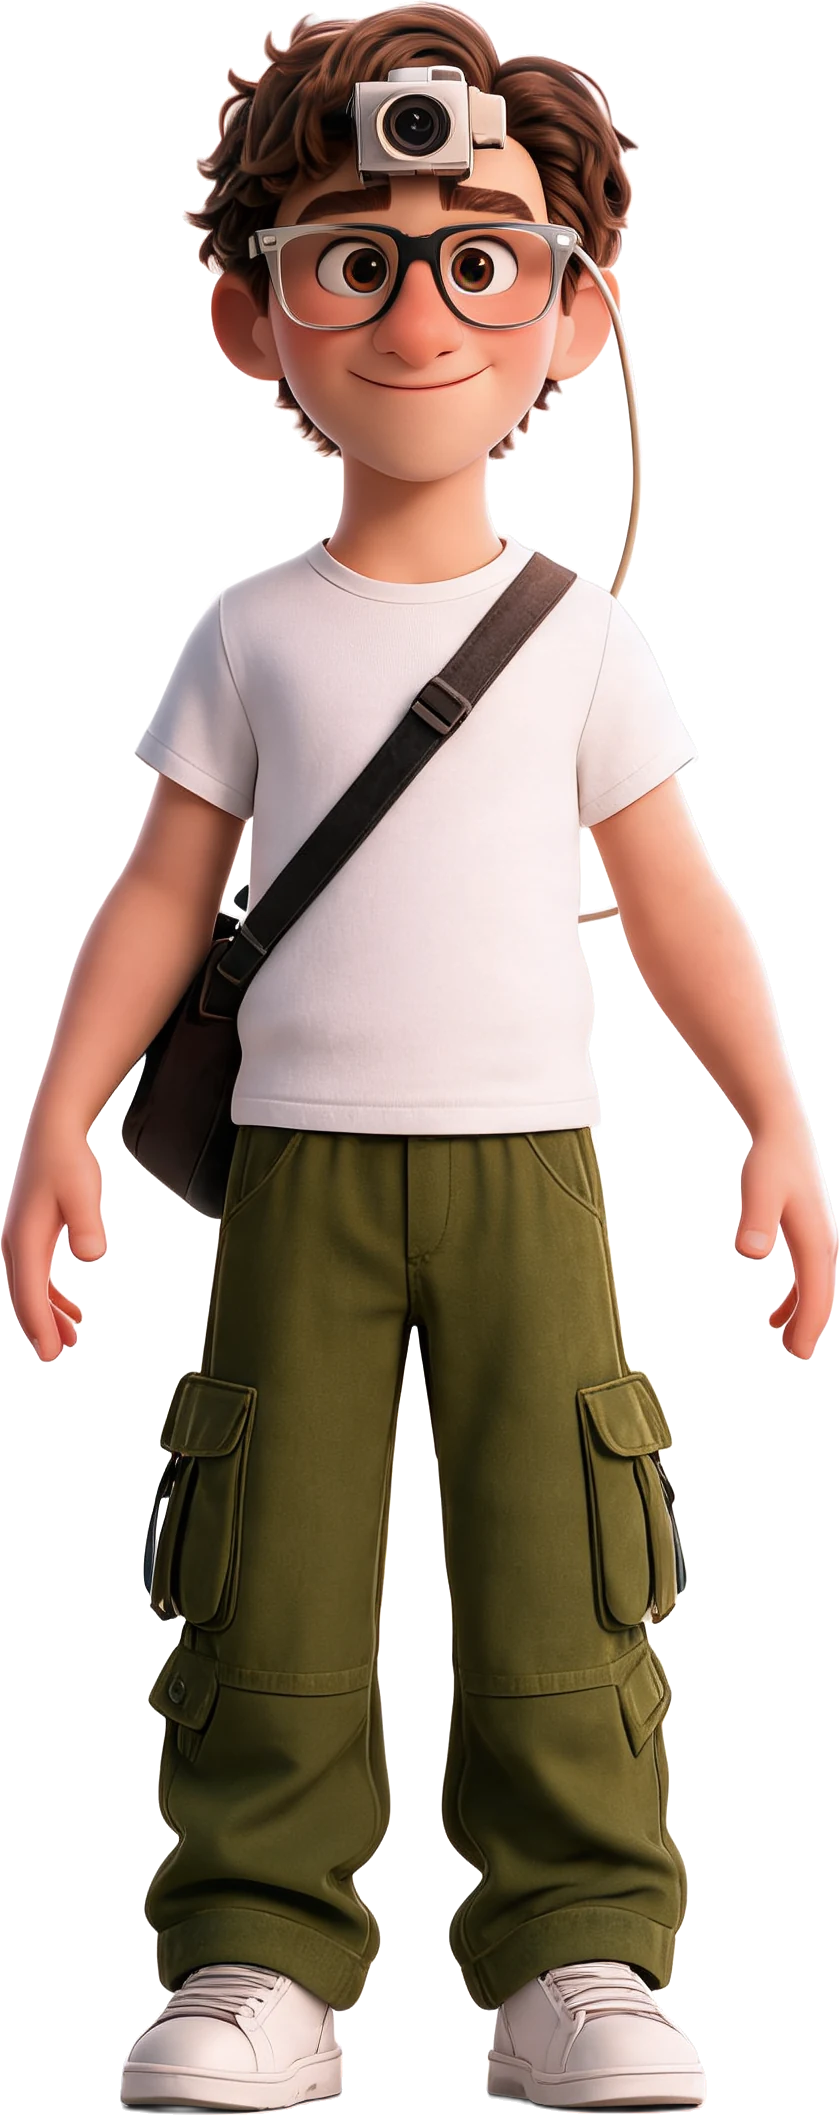
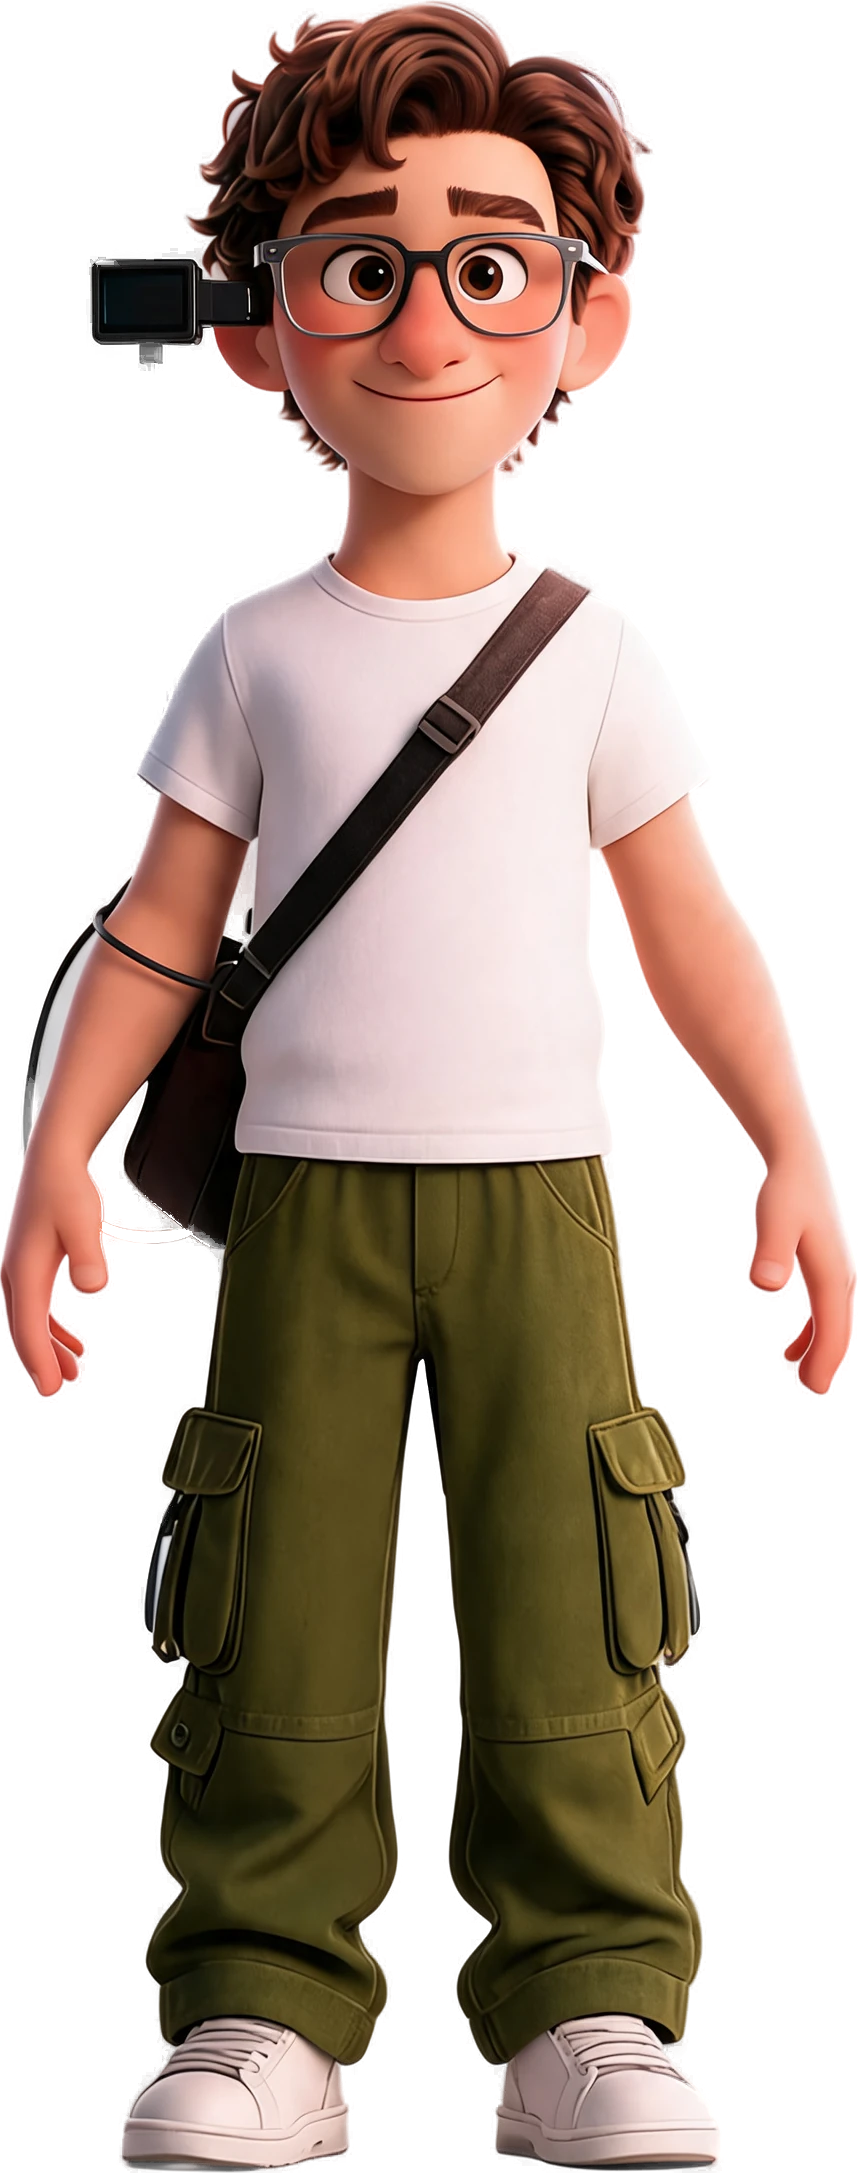
Act 1: accurate 2000s display glasses, era captions, Ray-Ban Meta camera/LED sides

diff --git a/index.html b/index.html
@@ -486,9 +486,9 @@ const ERAS = [
   ['1960s', 'Heavy. Obvious.'],
   ['1970s', 'Still a machine on a head.'],
   ['1980s', 'Smaller. Still strange.'],
-  ['1990s', 'Closer to sunglasses.'],
-  ['2000s', 'Easy to miss.'],
-  ['2010s', 'Hardly there.'],
+  ['1990s', 'Now it records.'],
+  ['2000s', 'Clipped onto ordinary glasses.'],
+  ['2010s', 'One eye. Everyone noticed.'],
   ['2020s', 'Can you tell?']
 ];
 // One call, two questions. No names, numbers or addresses: every clue is implicit (inferred)
@@ -1537,7 +1537,7 @@ function mkEraCar(type, col, col2) {
    Each figure is a card that turns to face the camera; a figure with several views swaps between them
    by angle. Walkers bob and sway as they go. Cards take a light tint from their scene. ---- */
 const CUT = {
-  guy_front: { w: 465, h: 958, ax: 228.3, mpp: 0.0018267, eye: [233.5, 130], cam: [168.7, 119.1], led: [293.7, 117.0] },
+  guy_front: { w: 465, h: 958, ax: 228.3, mpp: 0.0018267, eye: [233.5, 130], cam: [293.7, 117.0], led: [168.7, 119.1] },
   guy_side: { w: 201, h: 938, ax: 99.7, mpp: 0.0018267 },
   guy_back: { w: 460, h: 947, ax: 232.6, mpp: 0.0018267 },
   guy_face: { w: 672, h: 919, x0: 121.33, y0: -0.08, k: 0.3275 },
@@ -1545,7 +1545,7 @@ const CUT = {
   guy_1970: { w: 953, h: 1971, ax: 458.3, mpp: 0.0008892 },
   guy_1980: { w: 992, h: 1968, ax: 490.4, mpp: 0.0008892 },
   guy_1990: { w: 855, h: 2128, ax: 418.2, mpp: 0.0008259 },
-  guy_2000: { w: 840, h: 2115, ax: 411.4, mpp: 0.0008259 },
+  guy_2000: { w: 858, h: 2173, ax: 421.0, mpp: 0.0008039 },
   guy_2010: { w: 843, h: 2119, ax: 416.9, mpp: 0.0008259 },
   p1: { w: 507, h: 1563, ax: 234.9, mpp: 0.0011223 },
   p2: { w: 719, h: 1586, ax: 349.3, mpp: 0.0011223 },
